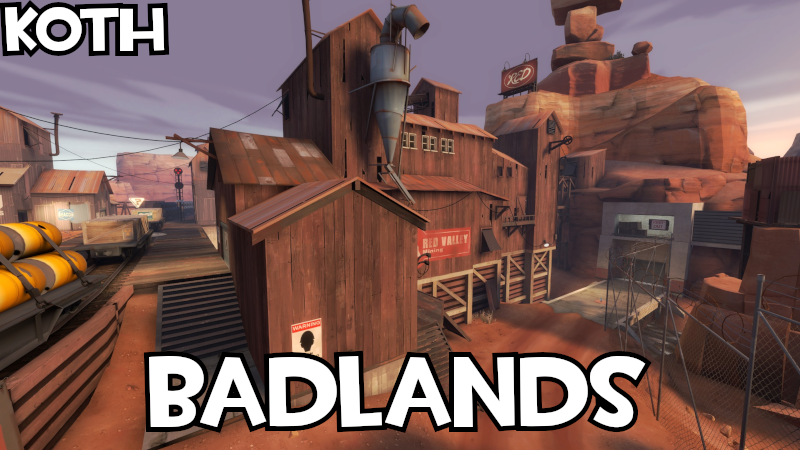
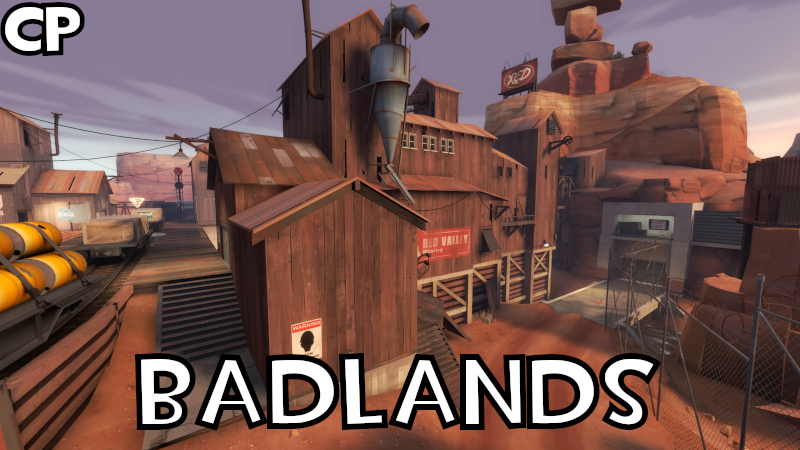
fixed wrong image and missing map

Changed region(s): [[0.1562, 0.7778, 0.8438, 0.9644], [0.0, 0.0, 0.2188, 0.1244]]

diff --git a/tf2maps.html b/tf2maps.html
@@ -24,7 +24,7 @@
 		<h1 id="tf2maps">Raven's TF2 Map Tier List</h1>
 		<button onclick="clearCache()" id="debugButton">Debug: Clear Cache</button>
 		<div class="version">
-			<span id="scriptVersion">x</span><span>List version: 1.0.0</span>
+			<span id="scriptVersion">x</span><span>List version: 1.0.1</span>
 		</div>
 		<div class="preview-container">
 			<img src="./images/placeholder.jpg" />
@@ -568,6 +568,11 @@
 				<div class="board-item" data-id="99">
 					<div class="board-item-content">
 						<img src="./images/tf2maps/koth_viaduct_event.png" />
+					</div>
+				</div>
+				<div class="board-item" data-id="1000">
+					<div class="board-item-content">
+						<img src="./images/tf2maps/koth_badlands.png" />
 					</div>
 				</div>
 				
